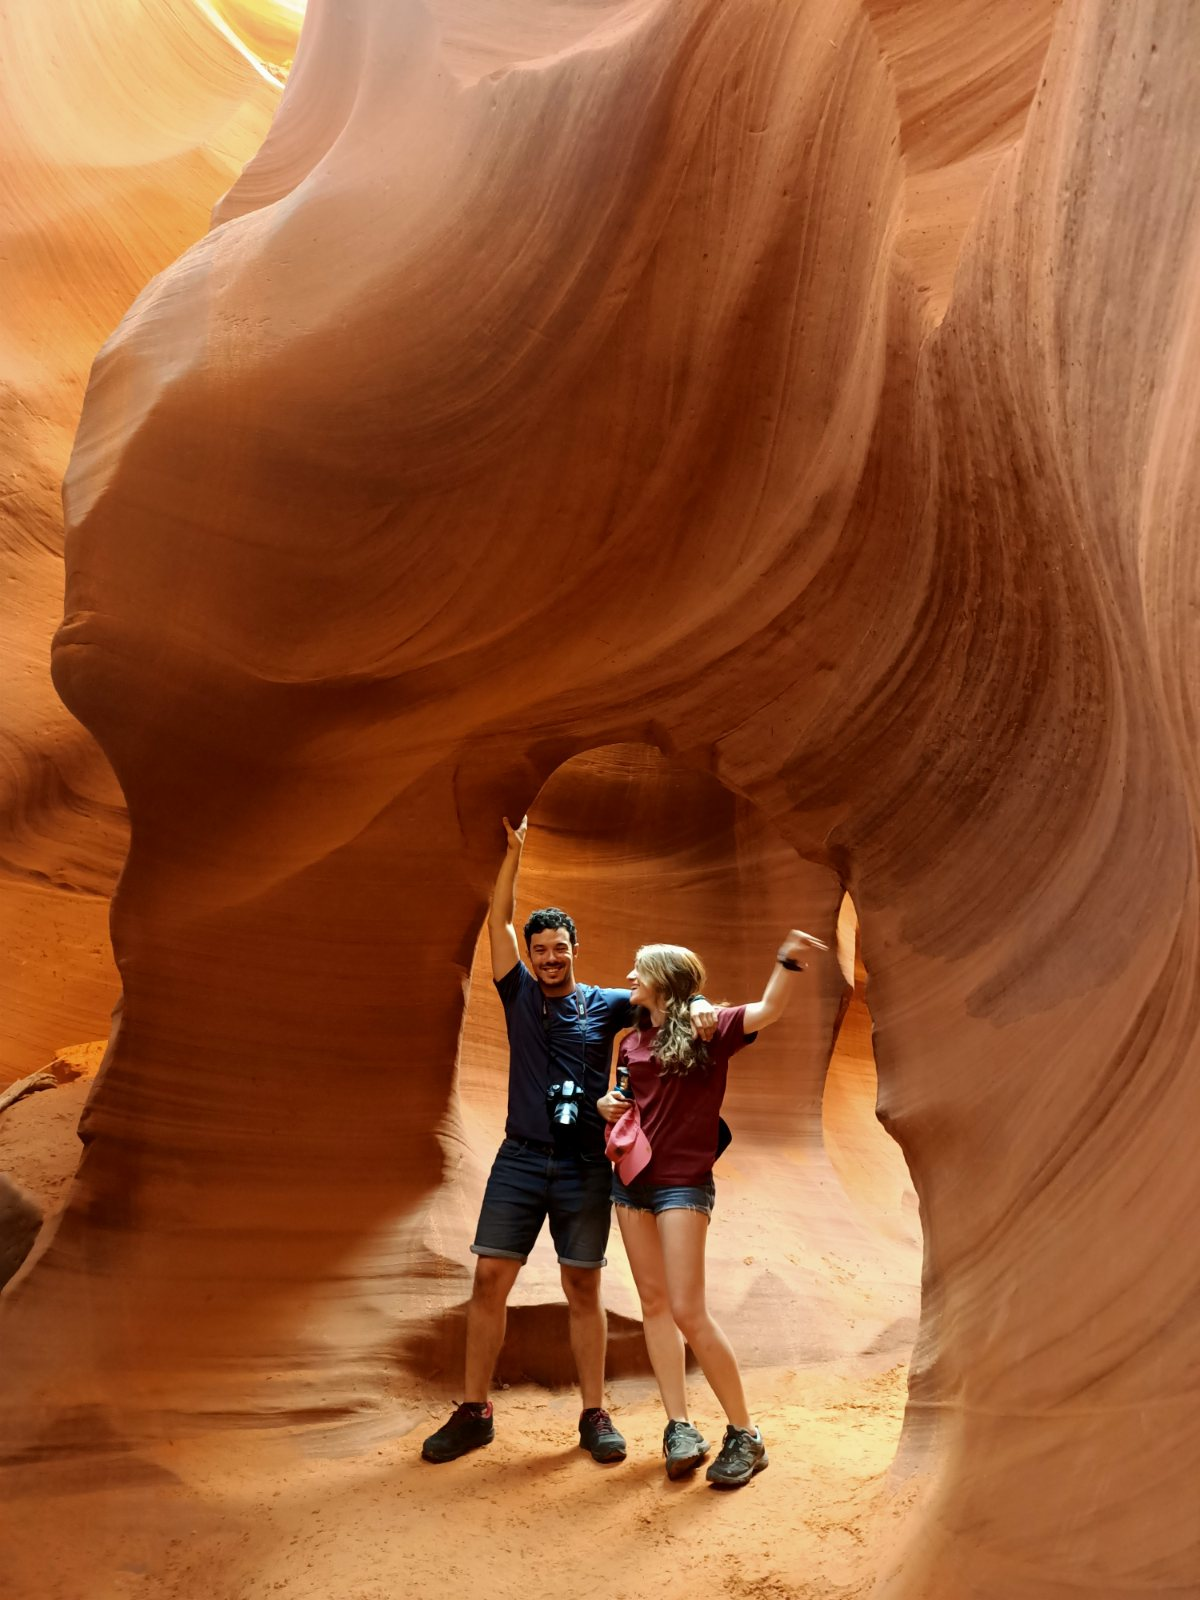
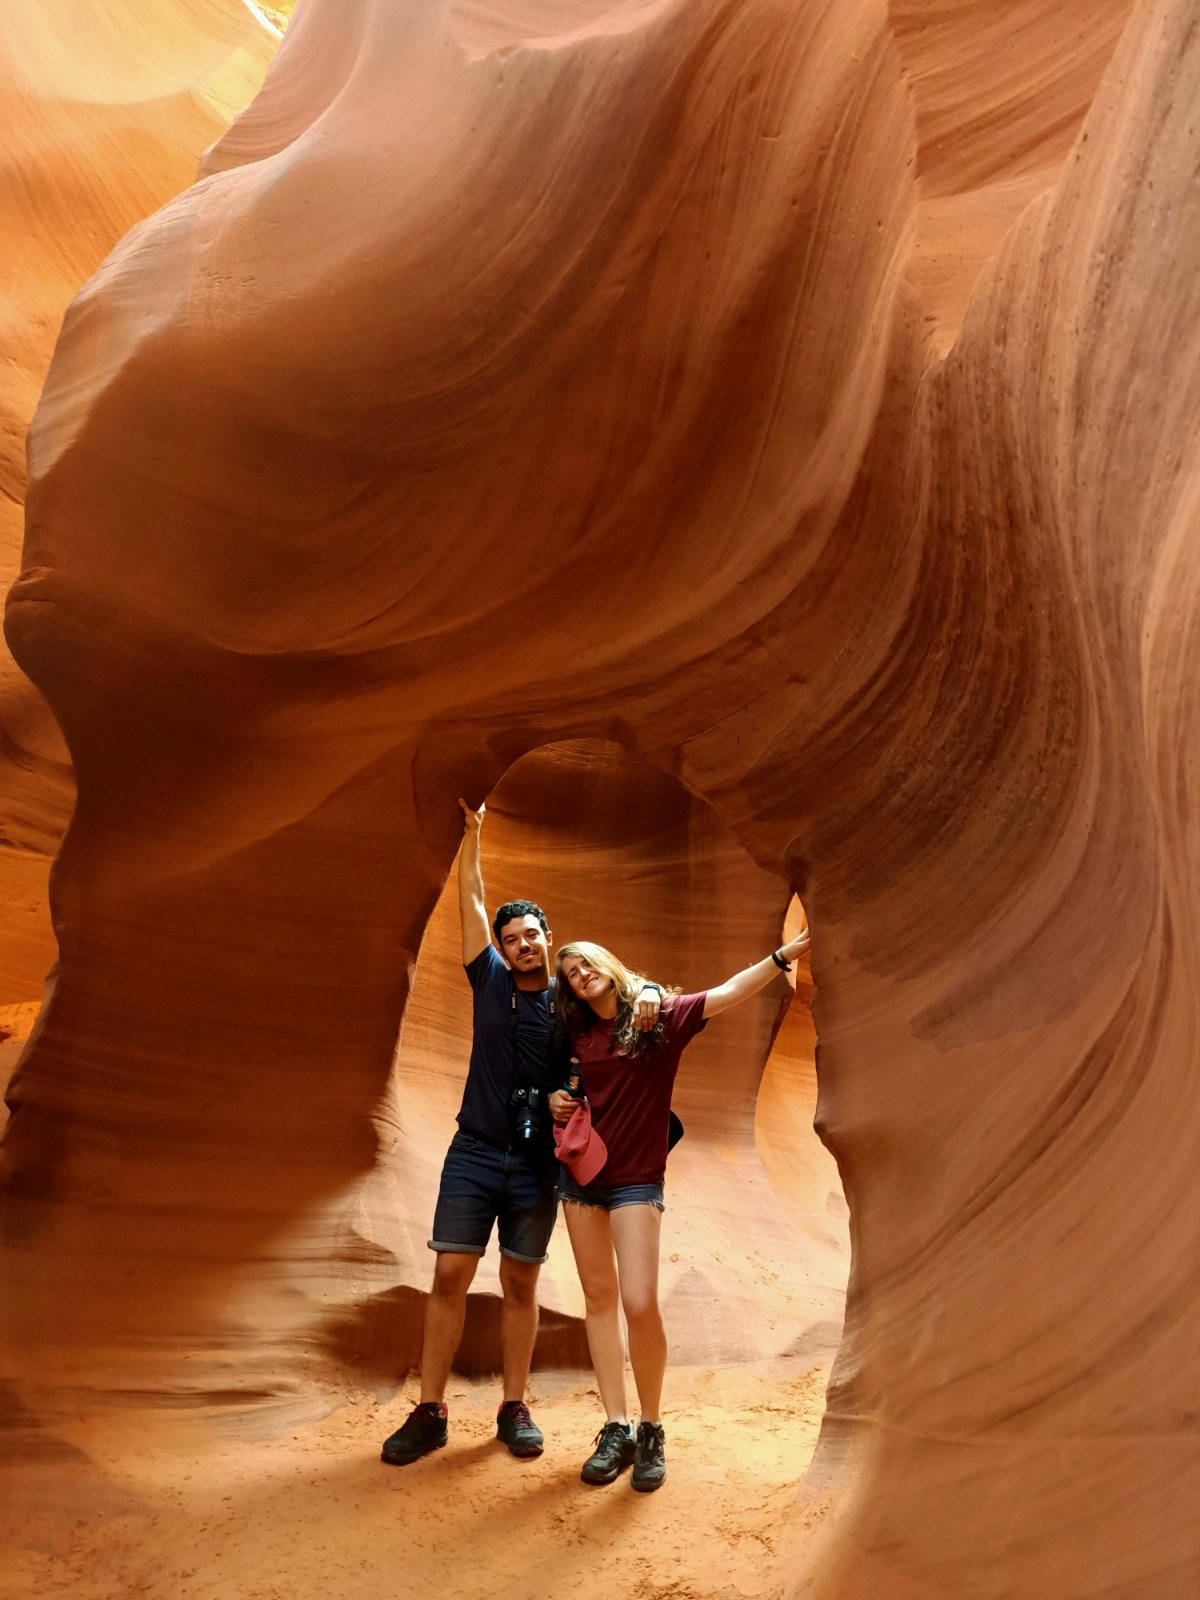
editor (Pablo): foto hero-mobile

diff --git a/index.html b/index.html
@@ -28,8 +28,8 @@
   <link rel="apple-touch-icon" sizes="180x180" href="assets/apple-touch-icon.png">
 
   <!-- Main Stylesheet. ?v= busts browser caches after each deploy: bump it whenever css/js change -->
-  <link rel="stylesheet" href="css/styles.css?v=202611182317-0822b57">
-  <link rel="stylesheet" href="css/editor.css?v=202611182317-0822b57">
+  <link rel="stylesheet" href="css/styles.css?v=202611182322-bd384c6">
+  <link rel="stylesheet" href="css/editor.css?v=202611182322-bd384c6">
 
   <!-- The envelope is the first thing on screen, so fetch its two images early -->
   <link rel="preload" as="image" href="assets/sobre.jpg?v=20261110v">
@@ -150,7 +150,7 @@
     <header class="hero-section" id="hero">
       <div class="hero-stage">
         <picture class="hero-photo" aria-hidden="true">
-          <source media="(max-width: 768px), (orientation: portrait)" srcset="assets/hero-mobile.jpg?v=202611182317-0822b57">
+          <source media="(max-width: 768px), (orientation: portrait)" srcset="assets/hero-mobile.jpg?v=202611182322-bd384c6">
           <img src="assets/hero-desktop.jpg" alt="" loading="eager" decoding="async">
         </picture>
 
@@ -547,13 +547,13 @@
 
   </main>
 
-  <script src="js/i18n.js?v=202611182317-0822b57"></script>
-  <script src="js/rsvp-config.js?v=202611182317-0822b57"></script>
-  <script src="js/script.js?v=202611182317-0822b57"></script>
-  <script src="js/playlist-config.js?v=202611182317-0822b57"></script>
-  <script src="js/playlist.js?v=202611182317-0822b57"></script>
-  <script src="js/mapa.js?v=202611182317-0822b57"></script>
-  <script src="js/flores-layout.js?v=202611182317-0822b57"></script>
-  <script src="js/flores.js?v=202611182317-0822b57"></script>
+  <script src="js/i18n.js?v=202611182322-bd384c6"></script>
+  <script src="js/rsvp-config.js?v=202611182322-bd384c6"></script>
+  <script src="js/script.js?v=202611182322-bd384c6"></script>
+  <script src="js/playlist-config.js?v=202611182322-bd384c6"></script>
+  <script src="js/playlist.js?v=202611182322-bd384c6"></script>
+  <script src="js/mapa.js?v=202611182322-bd384c6"></script>
+  <script src="js/flores-layout.js?v=202611182322-bd384c6"></script>
+  <script src="js/flores.js?v=202611182322-bd384c6"></script>
 </body>
 </html>

diff --git a/css/styles.css b/css/styles.css
@@ -737,7 +737,7 @@ button {
 /* Portrait tablets use the phone photo too (see the <source> in index.html) */
 @media (min-width: 769px) and (orientation: portrait) {
   .hero-photo img { object-position: 50% 30%; }
-  .card-back { background-image: url('../assets/hero-mobile.jpg?v=202611182317-0822b57'); background-position: 50% 30%; }
+  .card-back { background-image: url('../assets/hero-mobile.jpg?v=202611182322-bd384c6'); background-position: 50% 30%; }
 }
 
 /* Portrait (phones and tablets): the lettering sits at the top, over the
@@ -1973,7 +1973,7 @@ html.rsvp-modal-open { overflow: hidden; }
   }
 
   .card-back {
-    background-image: url('../assets/hero-mobile.jpg?v=202611182317-0822b57');
+    background-image: url('../assets/hero-mobile.jpg?v=202611182322-bd384c6');
     background-position: 50% 0%;
   }
 

diff --git a/playlist-admin.html b/playlist-admin.html
@@ -46,8 +46,8 @@
   </main>
 
   <script src="https://cdnjs.cloudflare.com/ajax/libs/xlsx/0.18.5/xlsx.full.min.js"></script>
-  <script src="js/playlist-config.js?v=202611182317-0822b57"></script>
-  <script src="js/playlist.js?v=202611182317-0822b57"></script>
+  <script src="js/playlist-config.js?v=202611182322-bd384c6"></script>
+  <script src="js/playlist.js?v=202611182322-bd384c6"></script>
   <script>
     (function () {
       'use strict';
